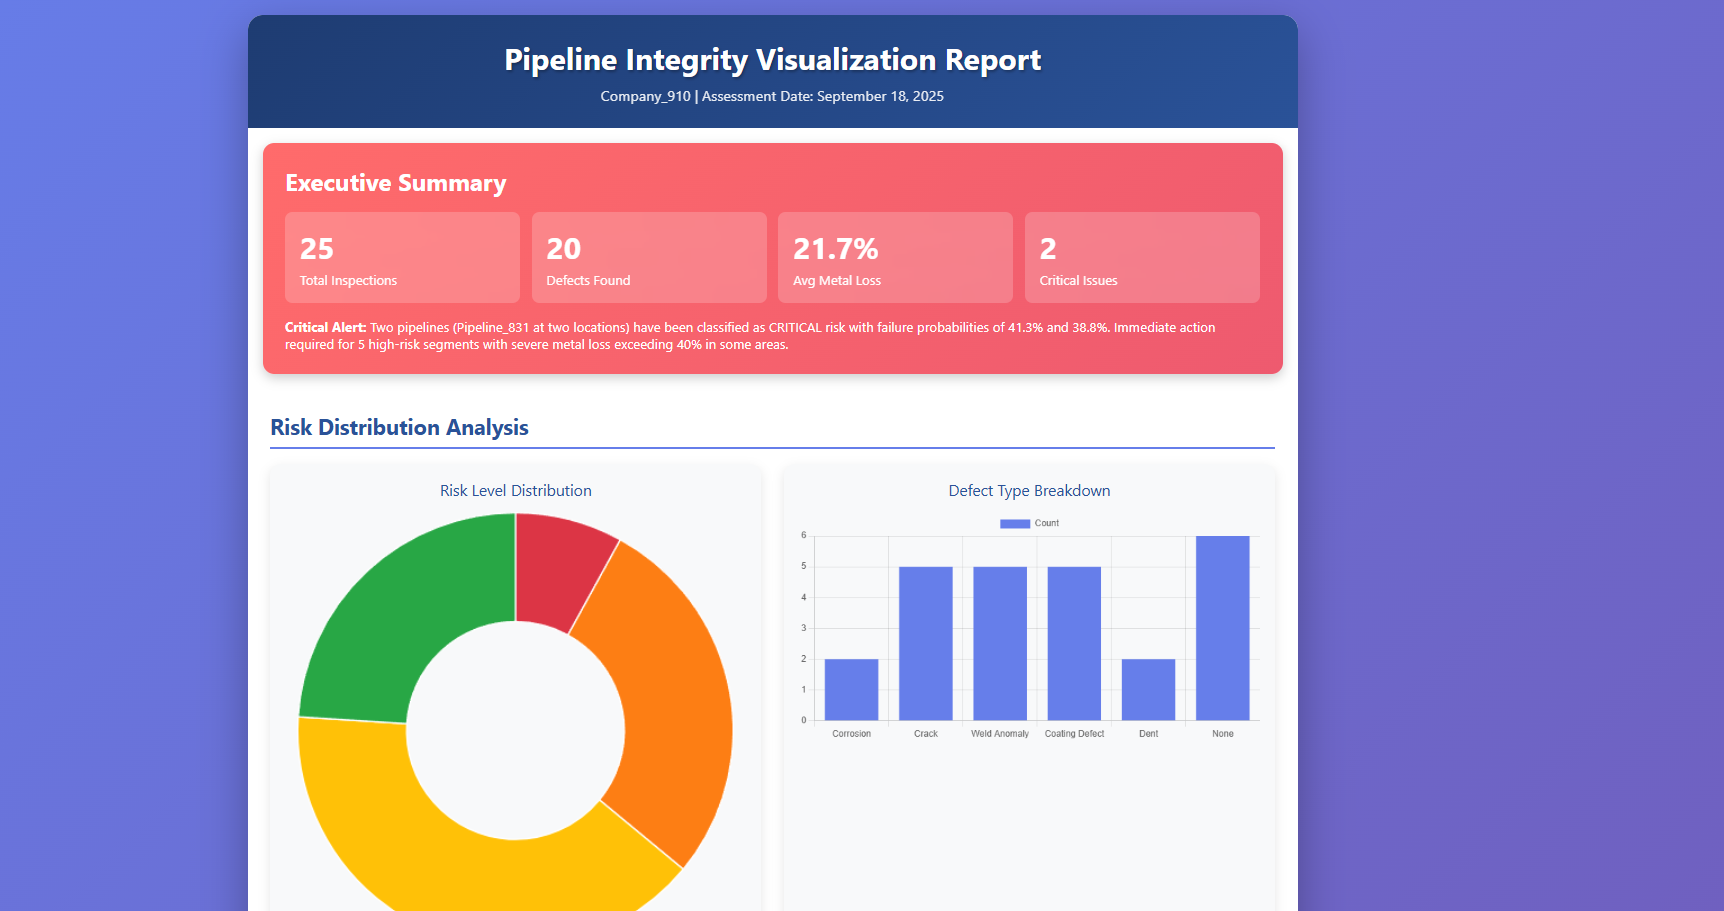
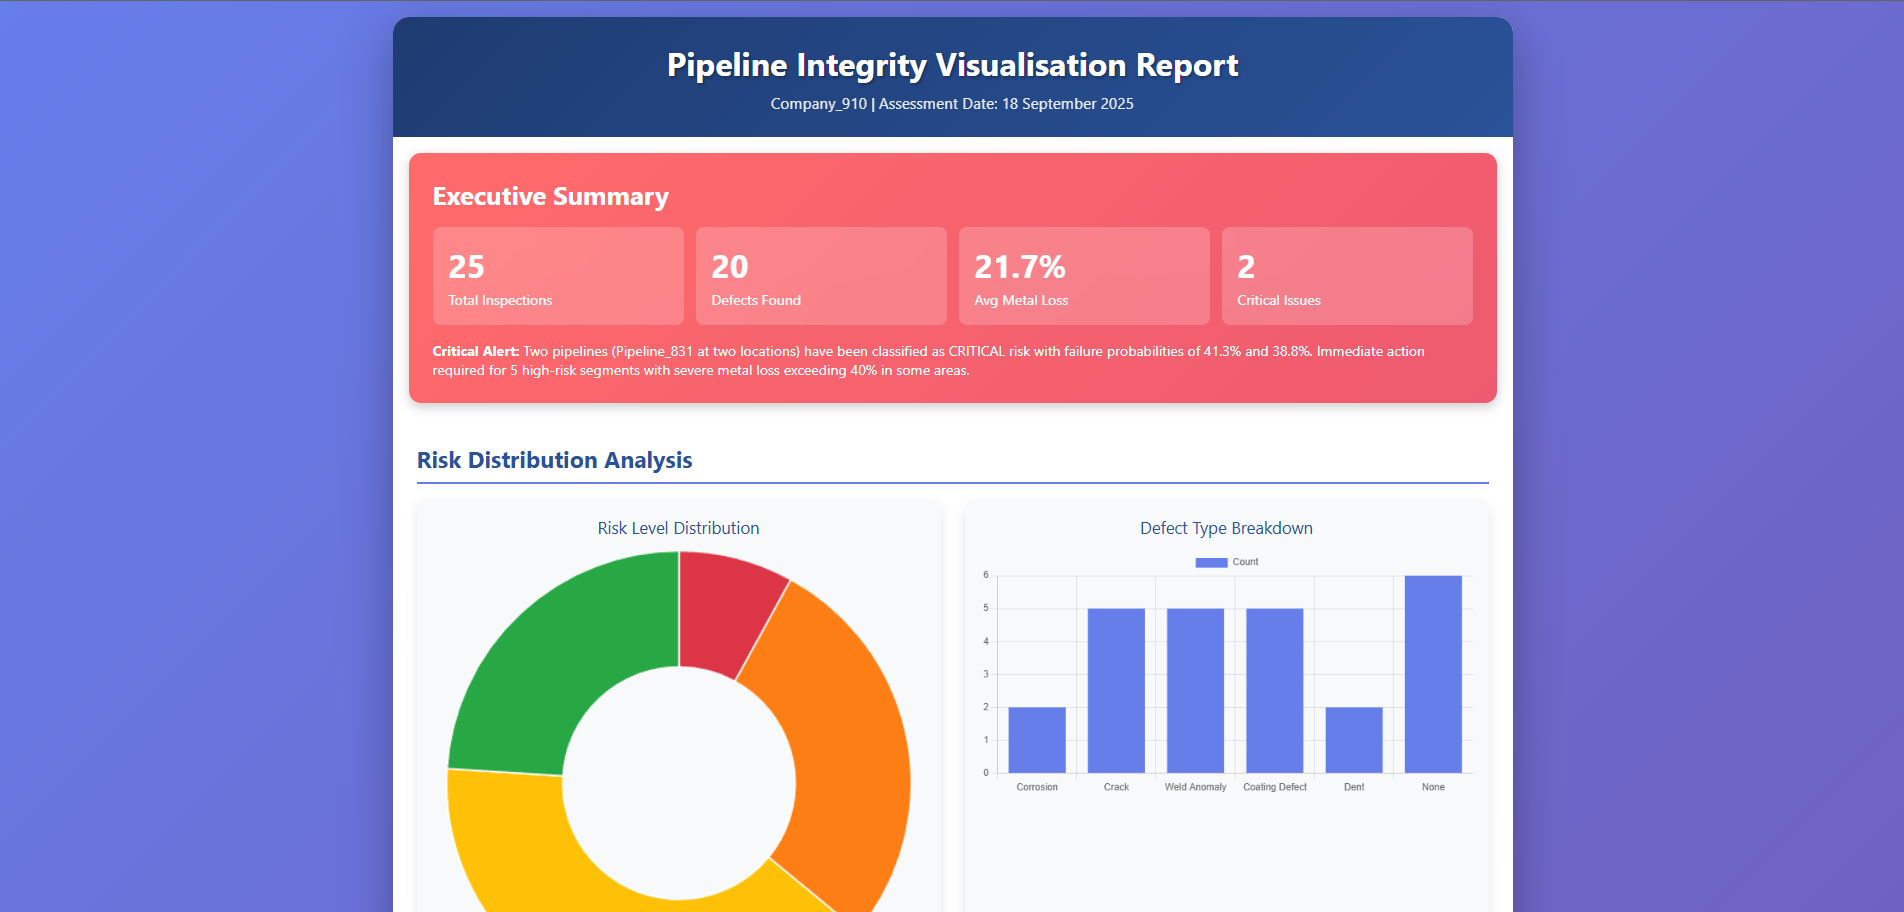
Update

diff --git a/docs/report.html b/docs/report.html
@@ -1,5 +1,5 @@
 <!DOCTYPE html>
-<html lang="en">
+<html lang="en-GB">
 <head>
     <meta charset="UTF-8">
     <meta name="viewport" content="width=device-width, initial-scale=1.0">
@@ -261,8 +261,8 @@
 <body>
     <div class="container">
         <div class="header">
-            <h1>Pipeline Integrity Visualization Report</h1>
-            <p>Company_910 | Assessment Date: September 18, 2025</p>
+            <h1>Pipeline Integrity Visualisation Report</h1>
+            <p>Company_910 | Assessment Date: 18 September 2025</p>
         </div>
         
         <div class="executive-summary">
@@ -497,7 +497,7 @@
         </div>
         
         <div class="footer">
-            <p>Report Generated: September 18, 2025 | Classification: CONFIDENTIAL</p>
+            <p>Report Generated: 18 September 2025 | Classification: CONFIDENTIAL</p>
             <p>Pipeline Integrity Management System | Company_910</p>
         </div>
     </div>
